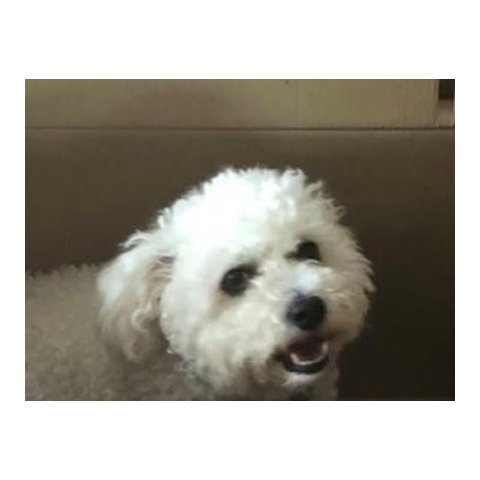
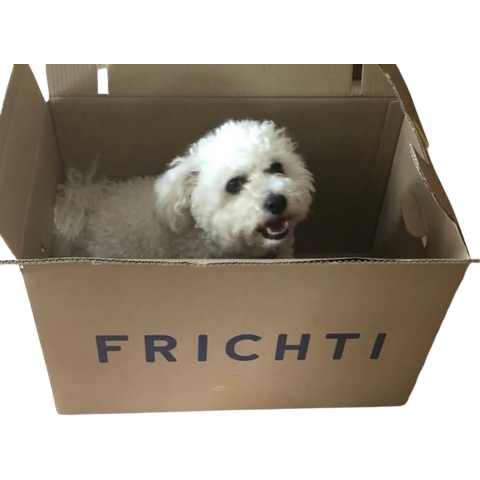
Add files via upload

diff --git a/js/games/tir.js b/js/games/tir.js
@@ -45,7 +45,7 @@ window.PoupiTir = (function () {
   let shipImg, enemyImg, catImgs;
   let running = false, initialized;
   let shipX, bullets, enemies, powerups, fx, score, kills, lives, lastFire, spawnTimer, spawnInterval;
-  let tripleUntil, rapidUntil, speedUntil, shieldUntil, lastPowerupSpawn;
+  let tripleUntil, rapidUntil, speedUntil, shieldUntil, lastPowerupSpawn, gameStartTime, nukeFlash;
   let keys = {};
   let audioCtx;
 
@@ -135,21 +135,65 @@ window.PoupiTir = (function () {
     } catch (e) {}
   }
 
-  function playBoom() {
+  // Grosse explosion pour la bombe ☢️ : crack initial + grondement grave longue
+  // traîne + bruit large bande qui s'assombrit — beaucoup plus gros que l'ancien
+  // "boom" (simple oscillateur), pour vraiment sonner comme une explosion.
+  function playNukeBoom() {
     const ac = getAudioCtx();
     if (!ac) return;
     try {
       const now = ac.currentTime;
-      const osc = ac.createOscillator();
-      const gain = ac.createGain();
-      osc.type = "triangle";
-      osc.frequency.setValueAtTime(180, now);
-      osc.frequency.exponentialRampToValueAtTime(40, now + 0.4);
-      gain.gain.setValueAtTime(0.35, now);
-      gain.gain.exponentialRampToValueAtTime(0.001, now + 0.5);
-      osc.connect(gain).connect(ac.destination);
-      osc.start(now);
-      osc.stop(now + 0.5);
+
+      // Crack initial : bruit large bande très court et fort (l'impact).
+      const crackDur = 0.06;
+      const crackBuf = ac.createBuffer(1, Math.floor(ac.sampleRate * crackDur), ac.sampleRate);
+      const crackData = crackBuf.getChannelData(0);
+      for (let i = 0; i < crackData.length; i++) {
+        crackData[i] = (Math.random() * 2 - 1) * Math.pow(1 - i / crackData.length, 0.6);
+      }
+      const crack = ac.createBufferSource();
+      crack.buffer = crackBuf;
+      const crackGain = ac.createGain();
+      crackGain.gain.setValueAtTime(0.8, now);
+      crackGain.gain.exponentialRampToValueAtTime(0.0001, now + crackDur);
+      crack.connect(crackGain).connect(ac.destination);
+      crack.start(now);
+      crack.stop(now + crackDur);
+
+      // Grondement grave (le "thump" au ventre), longue traîne.
+      const sub = ac.createOscillator();
+      sub.type = "sine";
+      sub.frequency.setValueAtTime(130, now);
+      sub.frequency.exponentialRampToValueAtTime(32, now + 0.9);
+      const subGain = ac.createGain();
+      subGain.gain.setValueAtTime(0.0001, now);
+      subGain.gain.exponentialRampToValueAtTime(0.9, now + 0.03);
+      subGain.gain.exponentialRampToValueAtTime(0.0001, now + 1.3);
+      sub.connect(subGain).connect(ac.destination);
+      sub.start(now);
+      sub.stop(now + 1.3);
+
+      // Roar / souffle de l'explosion : bruit filtré passe-bas qui s'assombrit
+      // progressivement sur plus d'une seconde.
+      const roarDur = 1.1;
+      const roarBuf = ac.createBuffer(1, Math.floor(ac.sampleRate * roarDur), ac.sampleRate);
+      const roarData = roarBuf.getChannelData(0);
+      for (let i = 0; i < roarData.length; i++) {
+        roarData[i] = (Math.random() * 2 - 1) * Math.pow(1 - i / roarData.length, 1.4);
+      }
+      const roar = ac.createBufferSource();
+      roar.buffer = roarBuf;
+      const roarFilter = ac.createBiquadFilter();
+      roarFilter.type = "lowpass";
+      roarFilter.frequency.setValueAtTime(2600, now);
+      roarFilter.frequency.exponentialRampToValueAtTime(90, now + roarDur);
+      const roarGain = ac.createGain();
+      roarGain.gain.setValueAtTime(0.0001, now);
+      roarGain.gain.exponentialRampToValueAtTime(0.6, now + 0.04);
+      roarGain.gain.exponentialRampToValueAtTime(0.0001, now + roarDur);
+      roar.connect(roarFilter).connect(roarGain).connect(ac.destination);
+      roar.start(now);
+      roar.stop(now + roarDur);
     } catch (e) {}
   }
 
@@ -170,6 +214,8 @@ window.PoupiTir = (function () {
     speedUntil = 0;
     shieldUntil = 0;
     lastPowerupSpawn = performance.now();
+    gameStartTime = performance.now();
+    nukeFlash = null;
   }
 
   function updateHud() {
@@ -183,14 +229,23 @@ window.PoupiTir = (function () {
     scoreEl.textContent = `Score : ${score} · Vies : ${"❤️".repeat(Math.max(0, lives))}${buffTxt}`;
   }
 
+  // La difficulté (vitesse et patterns des Mourier) dépend du temps écoulé
+  // depuis le début de la partie, PAS du score : ainsi aucun bonus (y compris
+  // 🍖 vitesse) ne peut accélérer les Mourier, même indirectement en faisant
+  // grimper le score plus vite pendant le buff.
+  function elapsedSec() {
+    return (performance.now() - gameStartTime) / 1000;
+  }
+
   function difficultyTier() {
-    if (score >= 400) return 2;
-    if (score >= 150) return 1;
+    const t = elapsedSec();
+    if (t >= 75) return 2;
+    if (t >= 30) return 1;
     return 0;
   }
 
   function baseSpeed() {
-    return 0.85 + Math.min(2.2, score / 260);
+    return 0.85 + Math.min(2.2, elapsedSec() / 55);
   }
 
   function currentShipSpeed() {
@@ -294,14 +349,16 @@ window.PoupiTir = (function () {
       let cleared = 0;
       for (let i = enemies.length - 1; i >= 0; i--) {
         if (enemies[i].type !== "cat") {
-          fx.push({ x: enemies[i].x, y: enemies[i].y, life: 20 });
+          fx.push({ x: enemies[i].x, y: enemies[i].y, life: 26, big: true });
           enemies.splice(i, 1);
           cleared++;
         }
       }
       score += cleared * 6;
       kills += cleared;
-      playBoom();
+      // Grosse explosion plein écran (flash + onde de choc + tremblement), voir step().
+      nukeFlash = { life: 36, maxLife: 36 };
+      playNukeBoom();
     }
   }
 
@@ -329,6 +386,14 @@ window.PoupiTir = (function () {
     ctx.clearRect(0, 0, W, H);
     ctx.fillStyle = "#0b1626";
     ctx.fillRect(0, 0, W, H);
+
+    // Tremblement d'écran pendant les ~10 premières frames de l'explosion nucléaire.
+    ctx.save();
+    if (nukeFlash && nukeFlash.life > nukeFlash.maxLife - 10) {
+      const shakeT = (nukeFlash.life - (nukeFlash.maxLife - 10)) / 10;
+      const shakeMag = 9 * shakeT;
+      ctx.translate((Math.random() - 0.5) * shakeMag, (Math.random() - 0.5) * shakeMag);
+    }
 
     const now = performance.now();
     const speed = currentShipSpeed();
@@ -373,6 +438,10 @@ window.PoupiTir = (function () {
 
     fx.forEach((f) => f.life--);
     fx = fx.filter((f) => f.life > 0);
+    if (nukeFlash) {
+      nukeFlash.life--;
+      if (nukeFlash.life <= 0) nukeFlash = null;
+    }
 
     // collisions balle/ennemi
     for (let i = enemies.length - 1; i >= 0; i--) {
@@ -436,6 +505,7 @@ window.PoupiTir = (function () {
     updateHud();
 
     if (lives <= 0) {
+      ctx.restore();
       endGame();
       return;
     }
@@ -448,8 +518,8 @@ window.PoupiTir = (function () {
 
     // petits effets (impact / boom / triste)
     fx.forEach((f) => {
-      ctx.globalAlpha = Math.max(0, f.life / 20);
-      ctx.font = f.sad || f.shield ? "24px sans-serif" : "20px sans-serif";
+      ctx.globalAlpha = Math.max(0, f.life / (f.big ? 26 : 20));
+      ctx.font = f.big ? "42px sans-serif" : f.sad || f.shield ? "24px sans-serif" : "20px sans-serif";
       ctx.fillText(f.sad ? "💔" : f.shield ? "🛡️" : "💥", f.x, f.y);
       ctx.globalAlpha = 1;
     });
@@ -526,6 +596,32 @@ window.PoupiTir = (function () {
       ctx.drawImage(shipImg, shipX - s / 2, H - SHIP_SIZE - 6, s, s);
     }
 
+    // Grosse explosion nucléaire : flash plein écran + onde de choc qui s'étend,
+    // dessinés par-dessus tout le reste pendant que nukeFlash est actif.
+    if (nukeFlash) {
+      const t = 1 - nukeFlash.life / nukeFlash.maxLife;
+      const flashAlpha = Math.max(0, 1 - t * 2.2) * 0.9;
+      if (flashAlpha > 0) {
+        ctx.fillStyle = `rgba(255,235,190,${flashAlpha})`;
+        ctx.fillRect(0, 0, W, H);
+      }
+      const ringR = t * Math.hypot(W, H) * 0.75;
+      ctx.strokeStyle = `rgba(255,130,50,${Math.max(0, 1 - t) * 0.9})`;
+      ctx.lineWidth = 14 * (1 - t) + 2;
+      ctx.beginPath();
+      ctx.arc(W / 2, H / 2, ringR, 0, Math.PI * 2);
+      ctx.stroke();
+      const ringR2 = Math.max(0, t - 0.15) * Math.hypot(W, H) * 0.75;
+      if (ringR2 > 0) {
+        ctx.strokeStyle = `rgba(255,235,190,${Math.max(0, 1 - t) * 0.6})`;
+        ctx.lineWidth = 8 * (1 - t) + 1;
+        ctx.beginPath();
+        ctx.arc(W / 2, H / 2, ringR2, 0, Math.PI * 2);
+        ctx.stroke();
+      }
+    }
+
+    ctx.restore();
     requestAnimationFrame(step);
   }
 

diff --git a/js/games/demineur.js b/js/games/demineur.js
@@ -81,6 +81,10 @@ window.PoupiDemineur = (function () {
     won = win;
     lastElapsed = Math.floor((Date.now() - startTime) / 1000);
     if (timerId) clearInterval(timerId);
+    // Compté avant de forcer l'affichage des mines : le nombre de cases sûres
+    // déjà révélées sert de base au score, même en cas d'explosion (voir plus bas).
+    const totalSafe = cells.length - MINES;
+    const safeRevealed = cells.filter((c) => c.revealed && !c.mine).length;
     cells.forEach((c) => {
       if (c.mine) c.revealed = true;
     });
@@ -90,8 +94,17 @@ window.PoupiDemineur = (function () {
     if (!finished) {
       finished = true;
       if (window.PoupiScores) {
-        const points = win ? Math.max(10, Math.min(100, 150 - lastElapsed * 2)) : 0;
-        const detail = win ? `${lastElapsed}s` : "💥 explosé";
+        let points, detail;
+        if (win) {
+          points = Math.max(10, Math.min(100, 150 - lastElapsed * 2));
+          detail = `${lastElapsed}s`;
+        } else {
+          // Points partiels selon la progression avant l'explosion, plutôt que 0
+          // systématique — trouver quelques cases sûres avant de tomber sur une
+          // mine, ça doit compter.
+          points = Math.max(0, Math.round((safeRevealed / totalSafe) * 70));
+          detail = `💥 explosé après ${safeRevealed}/${totalSafe} cases sûres`;
+        }
         window.PoupiScores.submitAndShow(GAME_KEY, points, detail);
       }
     }

diff --git a/jeux.html b/jeux.html
@@ -207,9 +207,9 @@
 <script src="js/games/morpion.js?v=3"></script>
 <script src="js/games/motus.js?v=4"></script>
 <script src="js/games/motsmeles.js?v=4"></script>
-<script src="js/games/memory.js?v=6"></script>
-<script src="js/games/demineur.js?v=3"></script>
-<script src="js/games/tir.js?v=6"></script>
+<script src="js/games/memory.js?v=7"></script>
+<script src="js/games/demineur.js?v=4"></script>
+<script src="js/games/tir.js?v=7"></script>
 <script src="js/games/jeux.js?v=4"></script>
 </body>
 </html>

diff --git a/js/games/memory.js b/js/games/memory.js
@@ -2,6 +2,10 @@
 // ses copains chats. Grille identique pour tout le monde (graine = date du jour).
 window.PoupiMemory = (function () {
   const GAME_KEY = "memory";
+  // Bump si une des photos du dossier assets/poupi/ est remplacée, pour casser
+  // le cache navigateur (les noms de fichiers ne changent pas d'une mise à jour
+  // photo à l'autre, contrairement aux autres assets versionnés en ?v=N).
+  const PHOTO_V = "2";
   const IMAGES = [
     "poupi-baby.png", "poupi-crado.png", "poupi-deg.png", "poupi-docteur.png",
     "poupi-duveteux.png", "poupi-empereur.png", "poupi-flemmasse.png", "poupi-gangsta.png",
@@ -79,7 +83,7 @@ window.PoupiMemory = (function () {
         <span class="memory-card-inner">
           <span class="memory-card-back">🐾</span>
           <span class="memory-card-front">
-            <img src="assets/poupi/${card.img}" alt="">
+            <img src="assets/poupi/${card.img}?v=${PHOTO_V}" alt="">
             <span class="memory-card-name">${NAMES[card.img] || ""}</span>
           </span>
         </span>`;